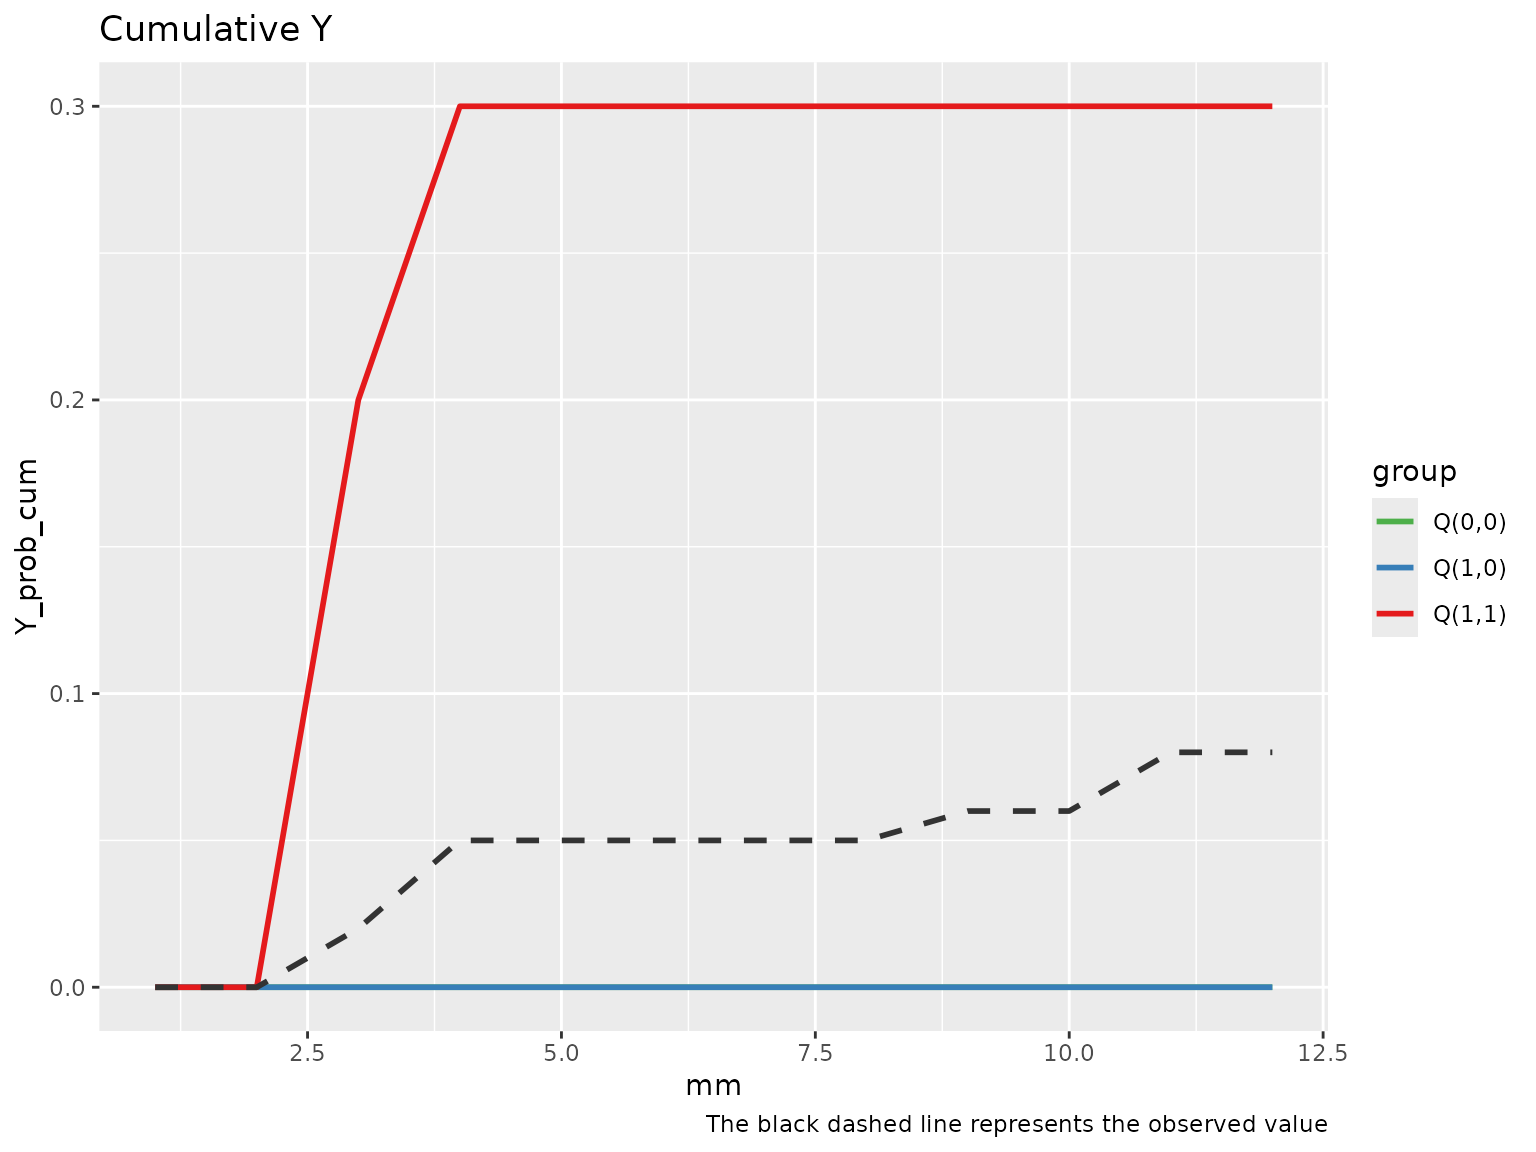
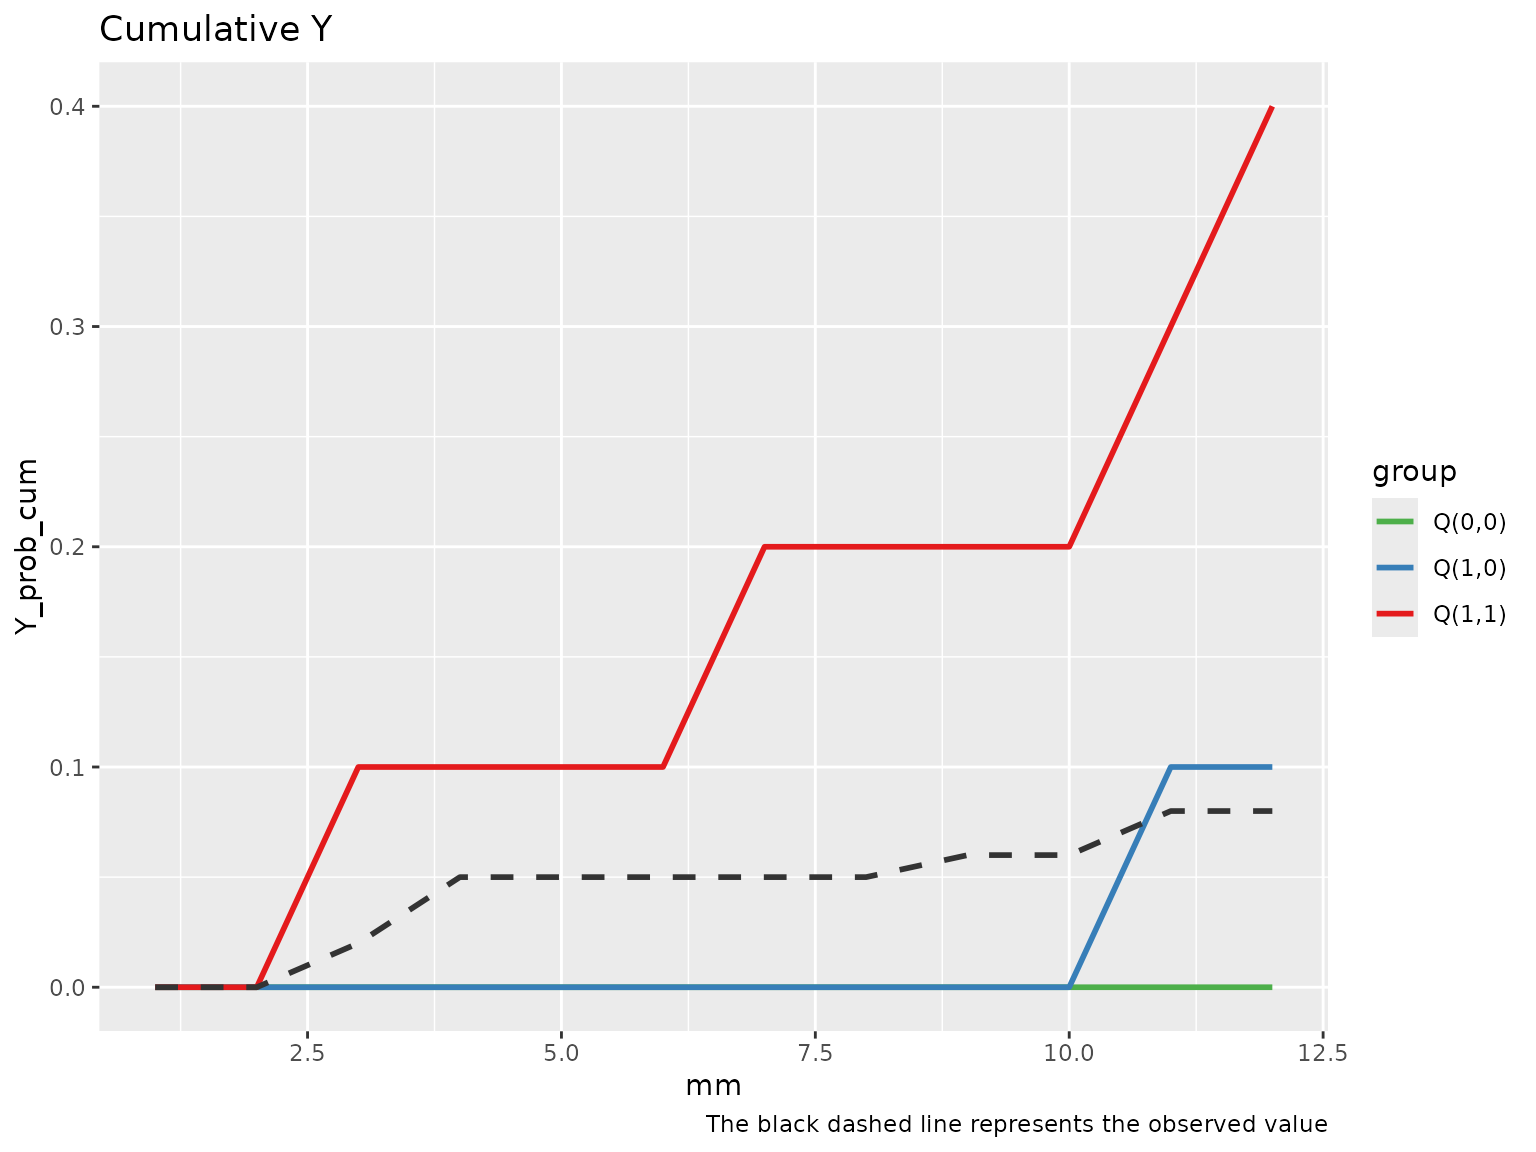
Deploying to gh-pages from @ causalepi/tvmedg@916dc97c865cc4f17ff0c270c5b544b380154878 🚀

diff --git a/articles/single_mediator.html b/articles/single_mediator.html
@@ -166,14 +166,14 @@ using 1000 Monte Carlo samples.</p>
 <span>                   montecarlo <span class="op">=</span> <span class="fl">10</span>,</span>
 <span>                   boot <span class="op">=</span> <span class="cn">F</span>,</span>
 <span>                   parallel <span class="op">=</span> <span class="cn">TRUE</span><span class="op">)</span></span>
-<span><span class="co">#&gt; Q(a,a): 0.3 </span></span>
-<span><span class="co">#&gt; Q(a,a*): 0 </span></span>
+<span><span class="co">#&gt; Q(a,a): 0.4 </span></span>
+<span><span class="co">#&gt; Q(a,a*): 0.1 </span></span>
 <span><span class="co">#&gt; Q(a*,a*): 0 </span></span>
 <span><span class="co">#&gt; Indirect (rIE): 0.3 </span></span>
-<span><span class="co">#&gt; Direct (rDE): 0 </span></span>
-<span><span class="co">#&gt; Total (rTE): 0.3 </span></span>
-<span><span class="co">#&gt; Proportional explain: 1 </span></span>
-<span><span class="co">#&gt; Total time elapsed: 5.178823 secs</span></span>
+<span><span class="co">#&gt; Direct (rDE): 0.1 </span></span>
+<span><span class="co">#&gt; Total (rTE): 0.4 </span></span>
+<span><span class="co">#&gt; Proportional explain: 0.75 </span></span>
+<span><span class="co">#&gt; Total time elapsed: 5.381884 secs</span></span>
 <span><span class="fu"><a href="https://rdrr.io/r/parallel/makeCluster.html" class="external-link">stopCluster</a></span><span class="op">(</span><span class="va">cl</span><span class="op">)</span></span></code></pre></div>
 </div>
 <div class="section level3">
@@ -216,12 +216,12 @@ example, we run only 5 bootstrap iterations.</p>
 <span>                   parallel <span class="op">=</span> <span class="cn">TRUE</span><span class="op">)</span></span>
 <span><span class="co">#&gt; Q(a,a): 0.6 (0.06, 1) </span></span>
 <span><span class="co">#&gt; Q(a,a*): 0.6 (0.01, 1) </span></span>
-<span><span class="co">#&gt; Q(a*,a*): 0 (0, 0.56) </span></span>
-<span><span class="co">#&gt; Indirect (rIE): 0 (0, 0.73) </span></span>
-<span><span class="co">#&gt; Direct (rDE): 0.6 (-0.55, 1) </span></span>
+<span><span class="co">#&gt; Q(a*,a*): 0 (0, 0.55) </span></span>
+<span><span class="co">#&gt; Indirect (rIE): 0 (0, 0.64) </span></span>
+<span><span class="co">#&gt; Direct (rDE): 0.6 (-0.54, 1) </span></span>
 <span><span class="co">#&gt; Total (rTE): 0.6 (-0.48, 1) </span></span>
-<span><span class="co">#&gt; Proportional explain: 0 (0, 1.045) </span></span>
-<span><span class="co">#&gt; Total time elapsed: 20.96827 secs</span></span>
+<span><span class="co">#&gt; Proportional explain: 0 (0, 0.917) </span></span>
+<span><span class="co">#&gt; Total time elapsed: 19.91723 secs</span></span>
 <span><span class="fu"><a href="https://rdrr.io/r/parallel/makeCluster.html" class="external-link">stopCluster</a></span><span class="op">(</span><span class="va">cl</span><span class="op">)</span></span></code></pre></div>
 </div>
 <div class="section level3">
